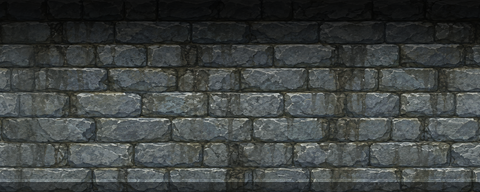
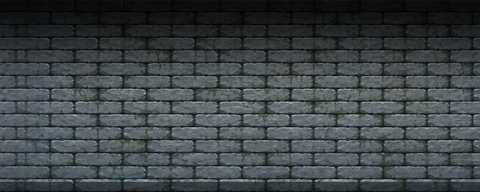
石壁を「石数2倍」の源画像から焼き直す (天面 36->18.4px / 立面 24->12.9px)
3度の縮小調整でも「まだ大きい」と再指摘されたので、源画像そのものを描き直した。
実測で天井が2つ判明した:
  ・天面 = ブロック径 block = 周期_src*(tiles*96+feather)/src幅 なので源の石の個数が上限。
    旧源 02_top_raw.png は 1254px に 6.0 個しかなく、36px より下は --tiles 1 (周期96pxが
    床グリッドと一致して全タイル同柄) しか残っていない。
  ・立面 = H_r=max(192, src高*course/course_src) の max があるため --course をいくら下げても
    course_src*192/src高 = 21.4px が床。旧源 01_face_raw.png は 9.2 コースしかない。
どちらも縮小レバーでは越えられないため、ChatGPT で石数を約2倍にした源を生成し直した
(03_top_raw_v2 = 11.3 個 / 04_face_raw_v2 = 15.5 コース。発注文 tools/sprite_batches/*_v2.txt)。
源 PNG は .gitignore 済みなのでローカル保管、発注文だけを追跡する。

出力寸法は据え置き (天面 192x192 / 立面 480x192) なので反復周期は悪化せず index.html は無改修。
  ・天面 --tiles 2 --feather 16 --gamma 1.18 -> 18.4px
    feather は継ぎ目の実測が 8=NG / 12,16,20=OK / 24,28=NG / 32=OK と飛び飛びなので安全域の中央。
    gamma は素のままだと平均 L=107.8 (前作 92.4) と 17% 明るくなるため前作へ合わせる。
  ・立面 --tiles 5 --course 12.9 -> 12.9px
    下端(床線)が横目地に乗る最小の course。12 では乗らない。

検証: driver_wall_face 21/21 PASS。描画系 31 本を実行して新規回帰ゼロ。
golden 6 件の差分は goblin-mine キー 1 個ずつだけで、orc-fort/undead-temple/dragon-lair/
caravan-road/bandits-forest/lizard-swamp はビット一致 (負の対照が成立)。
既知の赤 3 件 (field_step6 52/53, mapeditor_painting 97/101, mapeditor_props 69/70) は
件数も assert 名も同一。
field_step2 に dragon-lair の稀なフレークを新規発見したが、HEAD worktree との対比較で
作業16回中1回 / HEAD18回中0回と区別できず、dragon-lair の golden 値も変更前後でビット同一の
ため既存の非決定性と判断した。

diff --git a/tavern.html b/tavern.html
@@ -1984,10 +1984,10 @@
     <div id="changelogBox">
       <div class="changelogHeader">📜 更新情報</div>
       <ul class="changelogList">
+        <li><b>坑道の石壁を細かい石積みに描き直し</b> — 壁の石が半分の大きさになり、小ぶりな石を積み上げた壁に見えるようになった。</li>
         <li><b>石壁の石をさらに細かくした</b> — 壁の岩がもうひとまわり小さくなり、上から見た石も正面の石積みも、ひとつひとつ積んだ石として見えるようになった。</li>
         <li><b>石壁を細かい石積みに直し、通路の口を開けた</b> — 壁の石をひとまわり小さくし、左右の壁を薄くした。進める方角には壁が抜けていて、その先の闇へ道が続いて見える。</li>
         <li><b>ダンジョンの壁を石積みに描き直した</b> — 部屋のまわりに石壁が立ち上がり、たいまつの明かりで石の目地まで浮かび上がるようになった。</li>
-        <li><b>部屋の四方に石壁が見えるようになりました</b> — 上下左右を白っぽい岩肌で囲み、壁ぎわに影を落として奥行きを出しました。</li>
       </ul>
     </div>
     <script>

diff --git a/tools/make_wall_top.py b/tools/make_wall_top.py
@@ -14,11 +14,26 @@ make_wall_face.py との違い (共有できない理由):
   並ぶ。屋外の床で 2026-07-30 に踏んだのと同じ失敗 (「地面の葉っぱが大きすぎる」の真犯人が
   等倍敷きだった) なので、ブロック 53px 前後 = 半タイルまで落とす。
 
-  ⚠ 1 度目は 72px (--tiles 4) で出荷したが、実機の見た目で「石の画像の縮尺が大きく感じる」と
-    再指摘された (2026-08-09)。72px = 3/4 タイルは**キャラの肩幅とほぼ同じ**で、見下ろしの
-    石積みとしてはまだ岩が大きい。53px (--tiles 3 --feather 32) にすると「壁の厚み 1 タイルに
-    石が 2 個弱」= 積んだ石として読める寸法になる。⚠ これ以上落とす (--tiles 2 = 36px) と
-    反復周期が 2 タイル = 192px しかなくなり、南側 2 タイル幅のリングで繰り返しが目に付く。
+  ⚠ 72px (--tiles 4) → 53px (--tiles 3) → 36px (--tiles 2) と 3 度出荷したが、いずれも
+    実機の見た目で「まだ大きい」と再指摘された (2026-08-09 / 2026-08-10)。
+
+  ⭐⭐ 4 度目 (2026-08-10) で分かった**天井**: ブロック径は
+        block = 周期_src * (tiles*96 + feather) / src幅
+    なので **源画像に写っている石の個数がそのまま天井**になる。初代の源 02_top_raw.png は
+    1254px に石が 6.0 個しかなく、36px より下へ行く手は
+      ・--tiles 1     … 周期 96px が床グリッドと一致し、全タイルが同じ柄になる
+      ・feather を削る … 数 px しか動かず、しかも継ぎ目が壊れる
+    しか残っていない。**縮小レバーは尽きている** → 源を「石数の多い構図」で描き直すのが正道。
+    03_top_raw_v2.png (発注文 = tools/sprite_batches/mine_wall_top_v2.txt) は石を 11.3 個に
+    増やしたもので、--tiles 2 --feather 16 で **18.4px** = 36.0px のちょうど半分になる。
+
+  ⚠ feather は「大きいほど継ぎ目が綺麗」ではない。継ぎ目の質は resize 後の石の周期と
+    out+feather の位相が合うかで決まるので **値ごとに実測して選ぶ**。03_top_raw_v2 での実測は
+    8=NG / 12=OK / 16=OK / 20=OK / 24=NG / 28=NG / 32=OK。安全域の中央として 16 を採った。
+
+  ⚠ 源を差し替えたら **--gamma で明るさを前作に合わせる**こと。v2 は素のままだと平均 L=107.8
+    (前作 92.4) で 17% 明るく、依頼が「大きさ」だけのときに明るさまで動くと切り分けが壊れる。
+    --gamma 1.18 で 93.1 に戻る。
 
   ⚠ **--block は「目標値の表示」だけで、実際に効くのは --tiles と --feather**。
     出力寸法は tiles*96 に固定 (driver_wall_face の (1c) が「正方形 かつ tile の整数倍」を

diff --git a/tools/make_wall_face.py b/tools/make_wall_face.py
@@ -23,6 +23,20 @@
     横目地が 1 本も見えないので**また「平らな幕」に戻る**。これが 2026-08-08 の
     `壁1.png` + wallTint 実装が失敗した幾何的な理由。
 
+  ⭐⭐ 逆に、**--course をいくら下げても効かなくなる床がある** (2026-08-10 実測)。
+        H_r = max(height, src高 * course / course_src)
+    の max があるので、course が小さいほど H_r は height(192) に張り付き、そこから先は
+        実コース高 = course_src * 192 / src高
+    で固定される。初代の源 01_face_raw.png は 1024px に 9.2 コース (course_src=111px) しか
+    無いので **21.4px が床** = 24.0px から 11% しか細かくできない。
+    → **源に写っているコース数がそのまま天井**。04_face_raw_v2.png
+    (発注文 = tools/sprite_batches/mine_wall_face_v2.txt) は 15.5 コース (course_src=66px) に
+    増やしたもので、--tiles 5 --course 12.9 で **12.9px** = 24.0px のほぼ半分になる。
+
+  ⚠ course は「下端 (= 床線) が横目地に乗る」値を選ぶ。H_r が 192 に張り付く領域では乗らない
+    ことが多い (v2 では --course 12 が `目地: False`)。ログの `crop y0=... 目地: True/False` を
+    見て、**True になる最小の course** を採ること (v2 では 12.9)。
+
 寸法の決め方:
   ・横は tiles * 96 (既定 7 タイル = 672px)。1 ノードの部屋幅とちょうど一致するので、
     通常ノードでは横方向の繰り返しが**一度も画面に出ない**。
